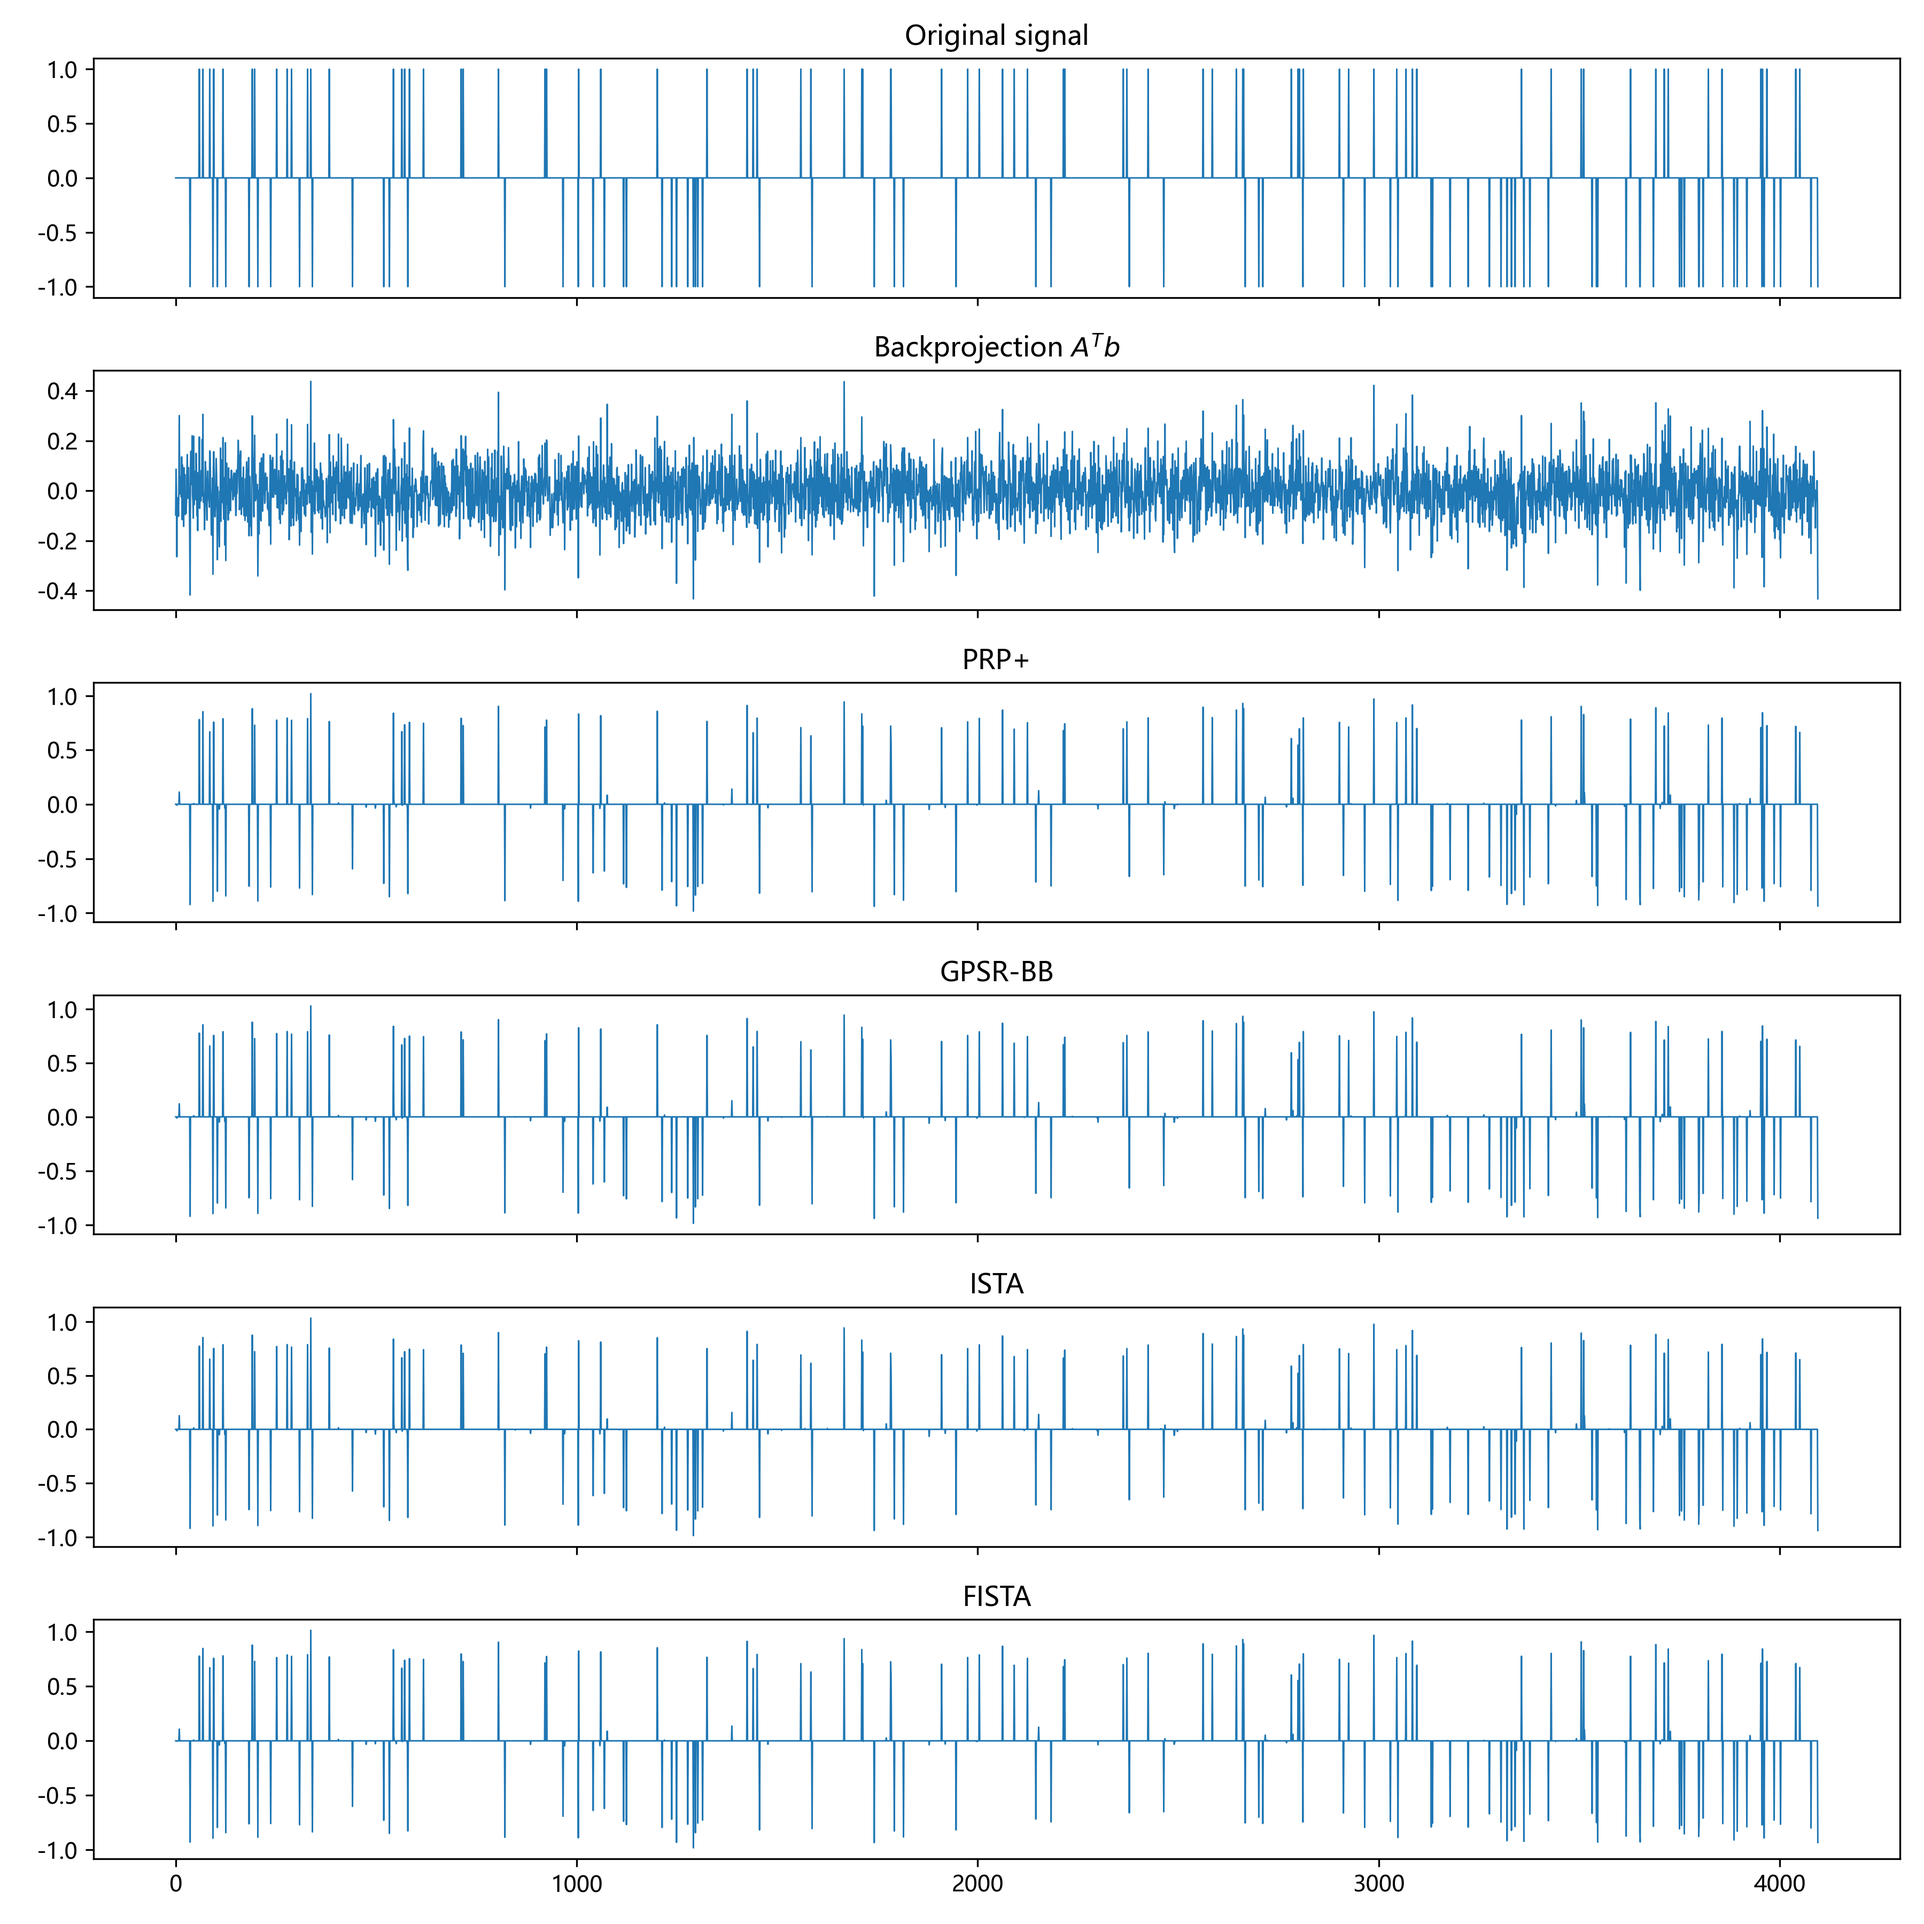
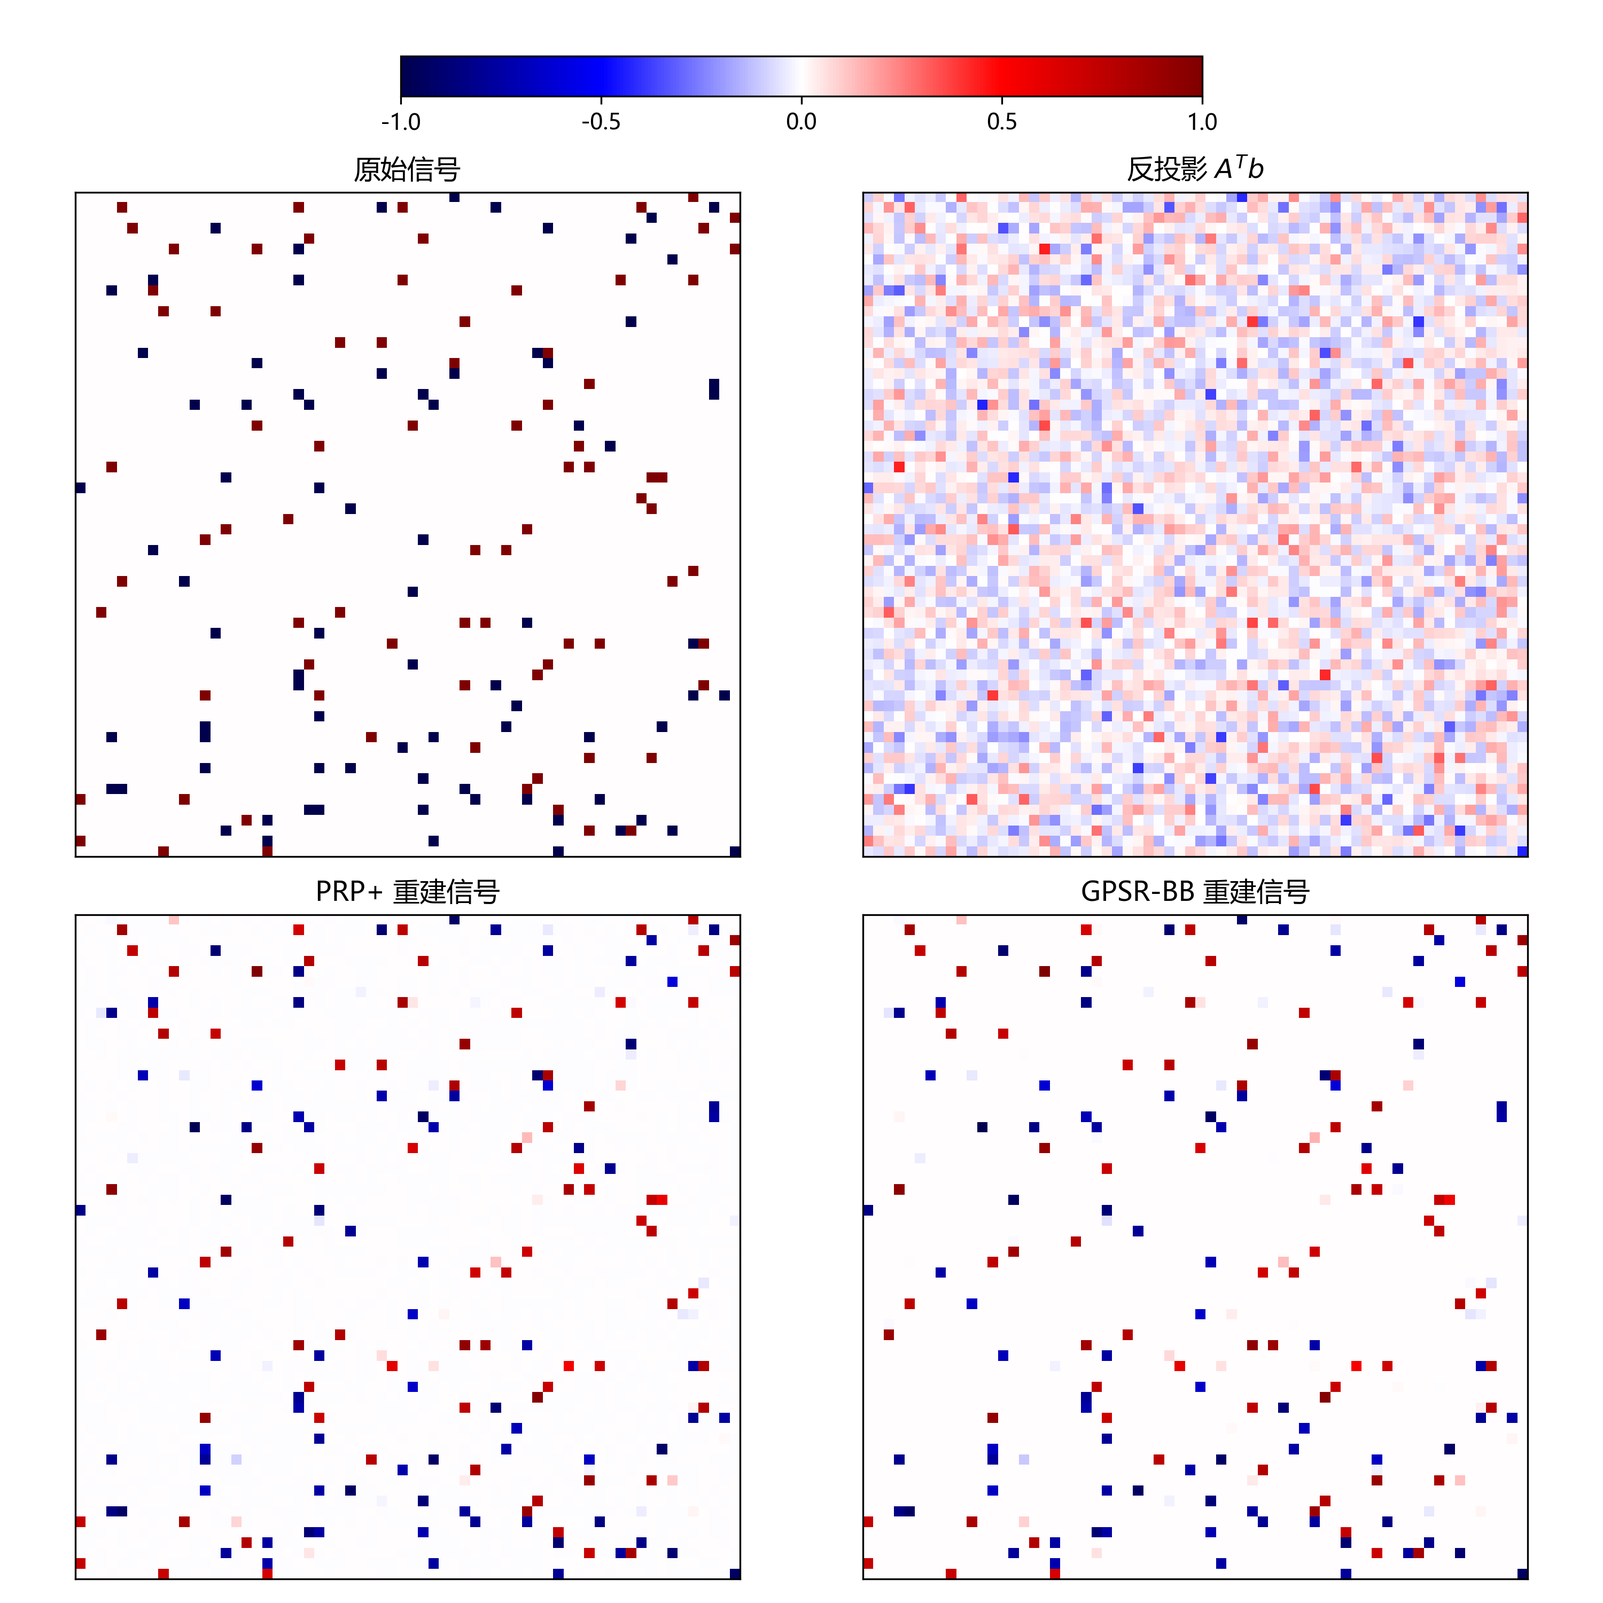
prob3 finished

diff --git a/scr/prob3.py b/scr/prob3.py
@@ -53,8 +53,6 @@ def prp(a, b, tau, maxiter=500):
             iterations += 1
             history.append(objective(a, b, tau, x))
     return x, iterations, restarts, history
-
-
 def gpsr(a, b, tau, maxiter=1500):
     n, alpha = a.shape[1], 1.0
     z = np.zeros(2 * n)
@@ -76,8 +74,8 @@ def gpsr(a, b, tau, maxiter=1500):
         alpha = 1e30 if gamma == 0 else float(np.clip((delta @ delta) / gamma, 1e-30, 1e30))
         z, g = zn, gn
     return z[:n] - z[n:], maxiter, 0, history
+# 正交行测量矩阵下步长为 1 的 ISTA/FISTA 基线。
 def ista(a, b, tau, maxiter=1500, accelerated=False):
-    """正交行测量矩阵下步长为 1 的 ISTA/FISTA 基线。"""
     x = y = np.zeros(a.shape[1])
     t, history = 1.0, []
     for k in range(1, maxiter + 1):
@@ -100,14 +98,11 @@ def metrics(xhat, x):
     return error / np.linalg.norm(x), error * error / x.size, \
         20 * np.log10(np.linalg.norm(x) / error), \
         2 * precision * recall / max(precision + recall, 1e-30)
-
-
 def run(seed):
     a, b, x = make_data(seed)
     tau = 0.1 * np.linalg.norm(a.T @ b, np.inf)
     rows, curves = [], {}
-    solvers = (('PRP+', prp), ('GPSR-BB', gpsr), ('ISTA', ista),
-               ('FISTA', lambda a, b, tau: ista(a, b, tau, accelerated=True)))
+    solvers = (('PRP+', prp), ('GPSR-BB', gpsr), ('ISTA', ista),('FISTA', lambda a, b, tau: ista(a, b, tau, accelerated=True)))
     for name, solver in solvers:
         start = perf_counter()
         xhat, iterations, restarts, history = solver(a, b, tau)
@@ -117,8 +112,6 @@ def run(seed):
                      objective(a, b, tau, xhat), rel, mse, snr, f1))
         curves[name] = (xhat, history)
     return rows, (x, a.T @ b, curves)
-
-
 def save(rows, example):
     import matplotlib.pyplot as plt
     plt.rcParams['font.sans-serif'] = ['Microsoft YaHei', 'SimHei', 'Arial Unicode MS']
@@ -134,20 +127,31 @@ def save(rows, example):
                 f.write(f'{name},{metric},{mean:.8g},{std:.8g}\n')
 
     x, backprojection, curves = example
-    fig, axes = plt.subplots(6, 1, figsize=(12, 12), sharex=True)
-    for ax, (title, values) in zip(axes, [('Original signal', x), ('Backprojection $A^Tb$', backprojection)] +
-                                 [(name, curves[name][0]) for name in curves]):
-        ax.plot(values, lw=0.7)
+    fig, axes = plt.subplots(2, 2, figsize=(10, 10))
+    signals = (
+        ('原始信号', x),
+        ('反投影 $A^Tb$', backprojection),
+        ('PRP+ 重建信号', curves['PRP+'][0]),
+        ('GPSR-BB 重建信号', curves['GPSR-BB'][0]),
+    )
+    for ax, (title, signal) in zip(axes.flat, signals):
+        image = ax.imshow(signal.reshape(64, 64), cmap='seismic', vmin=-1, vmax=1)
         ax.set_title(title)
-    fig.tight_layout()
+        ax.set_xticks([])
+        ax.set_yticks([])
+    plt.tight_layout(rect=(0, 0, 1, 0.92))
+    colorbar_ax = fig.add_axes([0.25, 0.94, 0.5, 0.025])
+    fig.colorbar(image, cax=colorbar_ax, orientation='horizontal', ticks=np.linspace(-1, 1, 5))
     fig.savefig(OUT_DIR / 'reconstruction.png', dpi=300)
     plt.close(fig)
 
+    plt.figure(figsize=(10, 6))
     for name, (_, history) in curves.items():
-        plt.semilogy(history, label=name)
+        plt.plot(history, label=name)
     plt.xlabel('迭代次数')
-    plt.ylabel('目标值')
-    plt.legend()
+    plt.ylabel('原始目标')
+    plt.ticklabel_format(axis='y', style='plain', useOffset=False)
+    plt.legend(loc='upper center',ncol=4)
     plt.tight_layout()
     plt.savefig(OUT_DIR / 'convergence.png', dpi=300)
     plt.close()
@@ -162,7 +166,6 @@ def main():
         for row in trial_rows:
             print(f'seed={seed:2d} {row[1]:7s} iter={row[2]:4d} time={row[4]:7.2f}s '
                   f'RelErr={row[6]:.4f} SNR={row[8]:6.2f}dB F1={row[9]:.4f}')
-    assert len(rows) == 4 * TRIALS and all(np.isfinite(float(v)) for row in rows for v in row[2:])
     save(rows, example)
 
 
